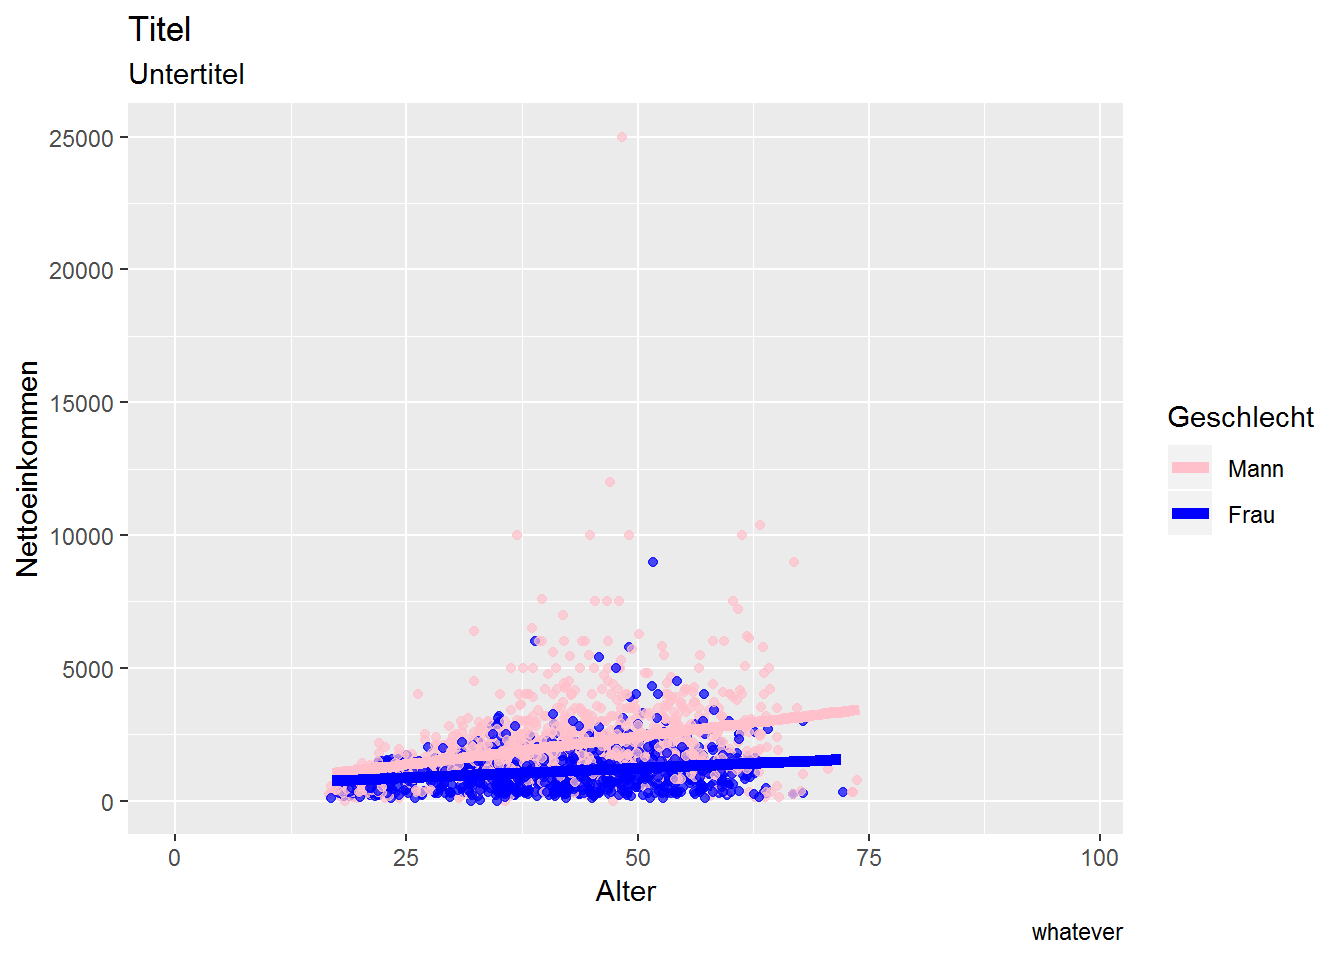
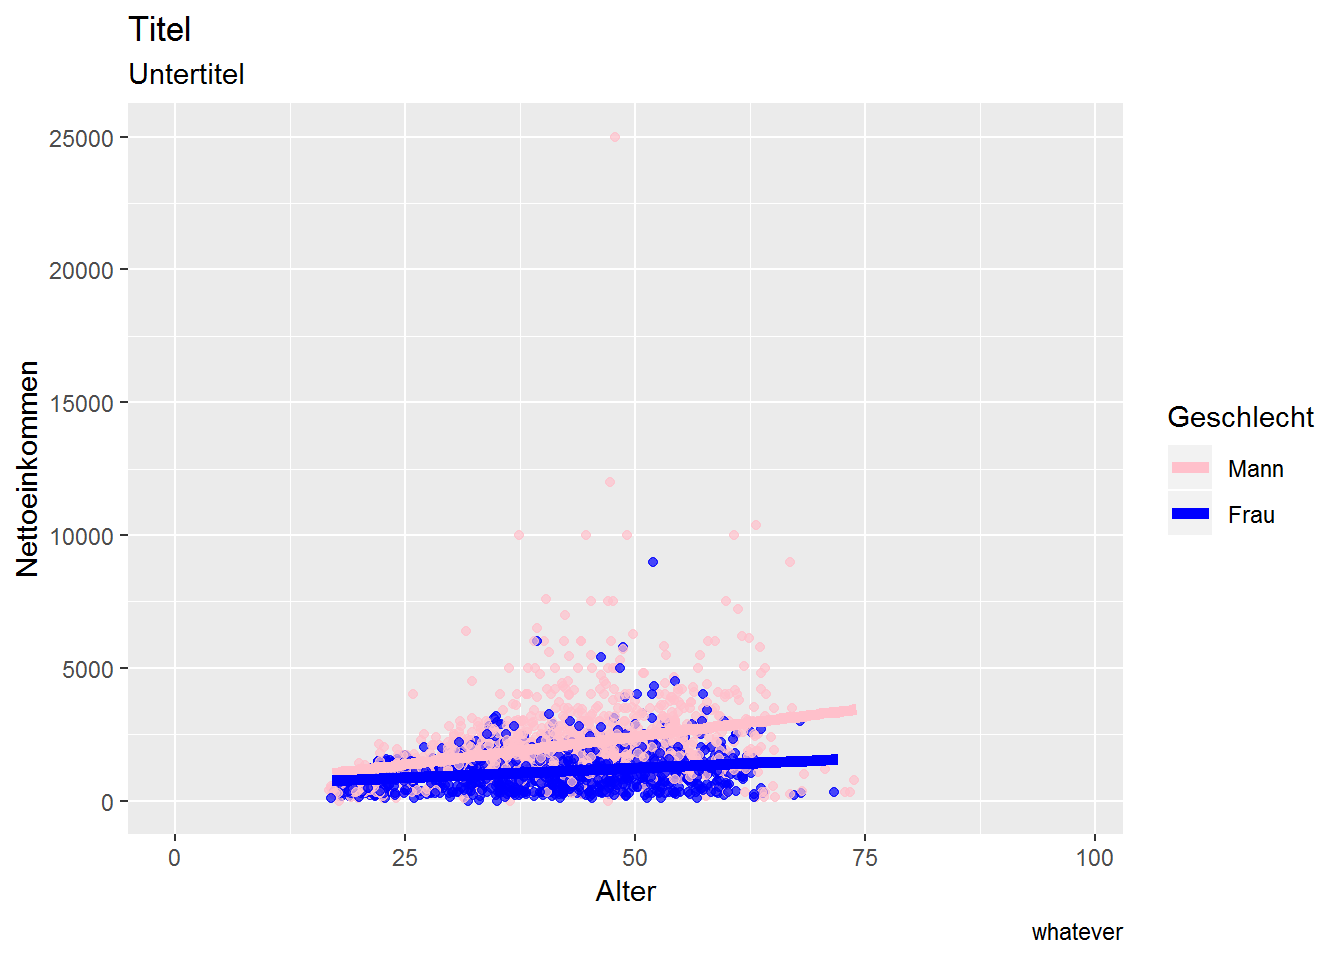
Adding Intro Information

diff --git a/docs/index.html b/docs/index.html
@@ -419,18 +419,34 @@ div.tocify {
 
 
 <hr />
-<div id="hello" class="section level1">
-<h1><span class="header-section-number">1</span> Hello</h1>
-<p>Welcome to this introductory <strong>R Intro</strong> tutorial. The following paragraphs shall get you familiar with R and hopefully make you full-fledged data scientists in no time. So let’s get started.</p>
-<p>R is a powerful prgramming language that is expecially well-suited for statistical analyses and the creation of graphics. It is one of the most widely used software packages in Econometrics and Applied Statistics. It is free and constantly adjusted and extended by a large user community which is why it is always up to date when it comes to the latest statistical developments. dsd</p>
+<div id="intro-and-agenda" class="section level1">
+<h1><span class="header-section-number">1</span> Intro and Agenda</h1>
+<p>Welcome to this introductory <strong>R Intro</strong> tutorial. The following paragraphs will get you familiar with R and hopefully make you full-fledged R users in no time.</p>
+<p>By the end of tomorrow, everybody of you will not only understand the basic functionality of R(Studio) but also be able to</p>
+<ul>
+<li><p>efficiently manage data</p></li>
+<li><p>write reproducible and easy to read code</p></li>
+<li><p>produce beautiful data visualisations</p></li>
+<li><p>generate straight forward regressions.</p></li>
+</ul>
+<p>~75% of our class will be hands-on - e.g. we solve coding problems from real life data (which are relevant for ISG) together. All code and necessary data can be downloaded from this site.</p>
+<p>With this</p>
+<p>Die Seite ist in Englisch, weil alle meine anderen R Tutorien/Kurse auch in Englisch waren - please forgive me.</p>
+<div id="agenda" class="section level2">
+<h2><span class="header-section-number">1.1</span> Agenda</h2>
+<p>We have two days, 4 hours per day.</p>
+<p>Day 1 * R Basics, Workflow in R Studio and Objects (1h) * Data Management and tidyverse (1h) + Eurostat Example: Two ways to load and install data + Destatis Example * Data Visualisations and tidyverse (1h)</p>
+<p>Day 2 * Data Visualisations (1h) * Regressions (1h) * knitr, R Notebooks (1h)</p>
+<p>R is a powerful prgramming language that is expecially well-suited for statistical analyses and the creation of graphics. It is one of the most widely used software packages in Econometrics and Applied Statistics. It is <strong>free</strong> and constantly adjusted and extended by a large user community which is why it is always up to date when it comes to the latest statistical developments.</p>
 <hr />
+</div>
 </div>
 <div id="technical-set-up" class="section level1">
 <h1><span class="header-section-number">2</span> Technical Set-Up</h1>
 <hr />
 <div id="installation" class="section level2">
 <h2><span class="header-section-number">2.1</span> Installation</h2>
-<p>R is the software executing your commands</p>
+<p>R is the software executing your commands.</p>
 <p>BUT: R itself is not quite userfriendly - the pane is inconvenient to maneuver. Therefore, there are various interfaces that can be added on top on the plain R. The most common one is R-Studio.</p>
 <p><strong>Download R</strong>:</p>
 <p><a href="https://cran.rstudio.com/bin/macosx/">MACOSX</a></p>
@@ -519,14 +535,22 @@ c(1,2,3,5) %&gt;% mean()</code></pre>
 </div>
 <div id="style" class="section level1">
 <h1><span class="header-section-number">6</span> Style</h1>
-<p>Maybe here short intro into R style or link to google style sheet.</p>
+<p>Arguably not the most imporant thing right now as we are just getting started. Nevertheless, it is important to have consistent and clean code. So you may want to circle back to this section once you get started writing your own code independently.</p>
+<p>All code you’ll encounter in this</p>
+<p>The basic shortcut for the RSutdio IDE to get tidy code is a) selecting code to be reformatted and b) pressing Ctrl+Shift+A.</p>
+<p>A pretty exhaustive style guide by Hadley Wickham and the tidyverse team can be found <a href="https://style.tidyverse.org/">here</a>. This builds upon the still widely referenced <a href="https://google.github.io/styleguide/Rguide.xml">Google’s R Style guide</a>.</p>
 </div>
 <div id="important-ressources" class="section level1">
 <h1><span class="header-section-number">7</span> Important Ressources</h1>
-<p><a href="https://www.stackoverflow.com/">Stackoverflow</a>) A general discussion forum for programmers, including many R users. Just google your question and make sure to place an “R” in the beginning of your question. Most often you will be directed to stackoverflow.</p>
-<p><a href="http://www.urfie.net/">Econometrics for R</a> Great book - this class is mainly based upon it. Has some 60pages of introduction into R.</p>
-<p><a href="http://tryr.codeschool.com/">CodeSchool</a> A fun way to learn the basics of R.</p>
-<p><a href="https://www.rstudio.com/wp-content/uploads/2016/05/base-r.pdf">Cheat Sheet Base R</a> A concise overview over the base R logic.</p>
+<p><a href="https://www.stackoverflow.com/">Stackoverflow</a>: A general discussion forum for programmers, including many R users. Just google your question and make sure to place an “R” in the beginning of your question. Most often you will be directed to stackoverflow.</p>
+<p><a href="http://www.urfie.net/">Econometrics for R</a>: Great book - this class is mainly based upon it. Has some 60pages of introduction into R.</p>
+<p><a href="http://tryr.codeschool.com/">CodeSchool</a>: A fun and free way to learn the basics of R.</p>
+<p><strong>Cheat Sheets</strong>: Cheat Sheets are a great way to get a concise overview over the functionality and logic of the R topic they cover. to the best of my knowledge, all major packages have one. Some examples</p>
+<ul>
+<li><p><a href="https://www.rstudio.com/wp-content/uploads/2016/05/base-r.pdf">Cheat Sheet Base R</a></p></li>
+<li><p><a href="https://www.rstudio.com/wp-content/uploads/2015/02/data-wrangling-cheatsheet.pdf">Cheat Sheet dplyr</a></p></li>
+<li><p><a href="https://www.rstudio.com/wp-content/uploads/2015/03/ggplot2-cheatsheet.pdf">Cheat Sheet ggplot</a></p></li>
+</ul>
 </div>
 
 

diff --git a/docs/datamanagement.html b/docs/datamanagement.html
@@ -493,12 +493,12 @@ econ$netinc = recode(econ$tp7602,&quot;-3=NA;-2=NA;-1=NA&quot;)
 econ_data &lt;- econ[,c(&quot;netinc&quot;,&quot;alter&quot;,&quot;sex&quot;,&quot;contract&quot;,&quot;actual&quot;,&quot;trust&quot;,&quot;rely&quot;)]
 head(econ_data)</code></pre>
 <pre><code>##       netinc alter      sex contract actual trust rely
-## 2261    2180    30 weiblich     38.5     45     3    2
-## 7722      NA    78 weiblich       NA     NA     2    3
-## 7565      NA    NA männlich       NA     NA    NA   NA
-## 8986    1200    49 weiblich     40.0     40     1    3
-## 13786   1800    58 männlich     40.0     40     2    3
-## 8015    3700    49 männlich     40.0     40     2    3</code></pre>
+## 7566    1600    59 männlich       40     40     3    1
+## 8043      NA     1 weiblich       NA     NA    NA   NA
+## 8331      NA    18 männlich       NA     NA     1    4
+## 10049     NA    46 männlich       NA     NA     3    2
+## 13543     NA    72 männlich       NA     NA     2    3
+## 6305      NA    68 männlich       NA     NA     2    3</code></pre>
 <pre class="r"><code># Delete NAs
 econ_data &lt;- na.omit(econ_data)
 
@@ -507,8 +507,8 @@ econ_data &lt;- na.omit(econ_data)
 hist(econ$netinc)</code></pre>
 <p><img src="datamanagement_files/figure-html/unnamed-chunk-2-1.png" width="672" /></p>
 <pre class="r"><code>quantile(econ_data$netinc)</code></pre>
-<pre><code>##   0%  25%  50%  75% 100% 
-##    0  850 1360 1960 7200</code></pre>
+<pre><code>##    0%   25%   50%   75%  100% 
+##     0   870  1350  1900 10388</code></pre>
 <pre class="r"><code>econ_data$inc_kat &lt;- NA
 econ_data$inc_kat [econ_data$netinc &lt; quantile(econ_data$netinc)[2]] &lt;- &quot;Q1&quot;
 econ_data$inc_kat [econ_data$netinc &gt;= quantile(econ_data$netinc)[2] &amp; econ_data$netinc &lt; quantile(econ_data$netinc)[3]] &lt;- &quot;Q2&quot;
@@ -518,7 +518,7 @@ econ_data$inc_kat [econ_data$netinc &gt;= quantile(econ_data$netinc)[4] ] &lt;- 
 table(econ_data$inc_kat)</code></pre>
 <pre><code>## 
 ##  Q1  Q2  Q3  Q4 
-## 415 425 419 422</code></pre>
+## 432 432 422 444</code></pre>
 </div>
 <div id="advanced-dm-the-tidyverse" class="section level1">
 <h1><span class="header-section-number">3</span> Advanced DM: The tidyverse</h1>
@@ -532,12 +532,12 @@ table(econ_data$inc_kat)</code></pre>
 
 head(econ_data)</code></pre>
 <pre><code>##   netinc alter      sex contract actual trust rely inc_kat alter_squared
-## 1   2180    30 weiblich     38.5     45     3    2      Q4           900
-## 2   1200    49 weiblich     40.0     40     1    3      Q2          2401
-## 3   1800    58 männlich     40.0     40     2    3      Q3          3364
-## 4   3700    49 männlich     40.0     40     2    3      Q4          2401
-## 5   2400    39 weiblich     40.0     60     3    2      Q4          1521
-## 6   2430    56 männlich     40.0     43     3    1      Q4          3136</code></pre>
+## 1   1600    59 männlich     40.0   40.0     3    1      Q3          3481
+## 2    518    43 weiblich     20.0   25.0     2    3      Q1          1849
+## 3   1300    42 weiblich     33.0   33.0     3    4      Q2          1764
+## 4   8000    45 männlich     20.0   40.0     2    3      Q4          2025
+## 5   1100    24 männlich     35.0   35.0     4    1      Q2           576
+## 6   1500    33 weiblich     38.5   38.5     2    2      Q3          1089</code></pre>
 </div>
 <div id="summarise" class="section level2">
 <h2><span class="header-section-number">3.2</span> Summarise</h2>
@@ -545,8 +545,8 @@ head(econ_data)</code></pre>
 <pre class="r"><code>econ_data %&gt;% 
   summarise(mean = mean(alter,na.rm = T),
             sd = sd(alter,na.rm = T))</code></pre>
-<pre><code>##      mean       sd
-## 1 40.6276 11.73149</code></pre>
+<pre><code>##       mean       sd
+## 1 41.04855 11.74089</code></pre>
 </div>
 <div id="group_by" class="section level2">
 <h2><span class="header-section-number">3.3</span> group_by</h2>
@@ -558,7 +558,7 @@ head(econ_data)</code></pre>
 <pre><code>## # A tibble: 1 x 2
 ##    mean    sd
 ##   &lt;dbl&gt; &lt;dbl&gt;
-## 1  40.6  11.7</code></pre>
+## 1  41.0  11.7</code></pre>
 </div>
 </div>
 

diff --git a/docs/about.html b/docs/about.html
@@ -415,8 +415,9 @@ div.tocify {
 
 
 <hr />
-<p>More about this website.</p>
-<p>And now add this</p>
+<p>The first half of this site heavily builds upon <a href="https://schliebs.github.io/Applied_Econometrics_with_R">Econometrics with R</a> - a tutorial for students at Zeppelin University. Credits go to <a href="https://github.com/schliebs">Marcel Schliebs</a> with whom I designed and lead this class.</p>
+<p>“Objects and Data” examples are inspired by <a href="http://www.urfie.net/">Econometrics for R</a>.</p>
+<p>Most of the other subpages and scripts are of my own making. This is especially true for all errors and bugs. If you find one, shoot me an email at benedikt(at)fritz.re</p>
 
 
 
